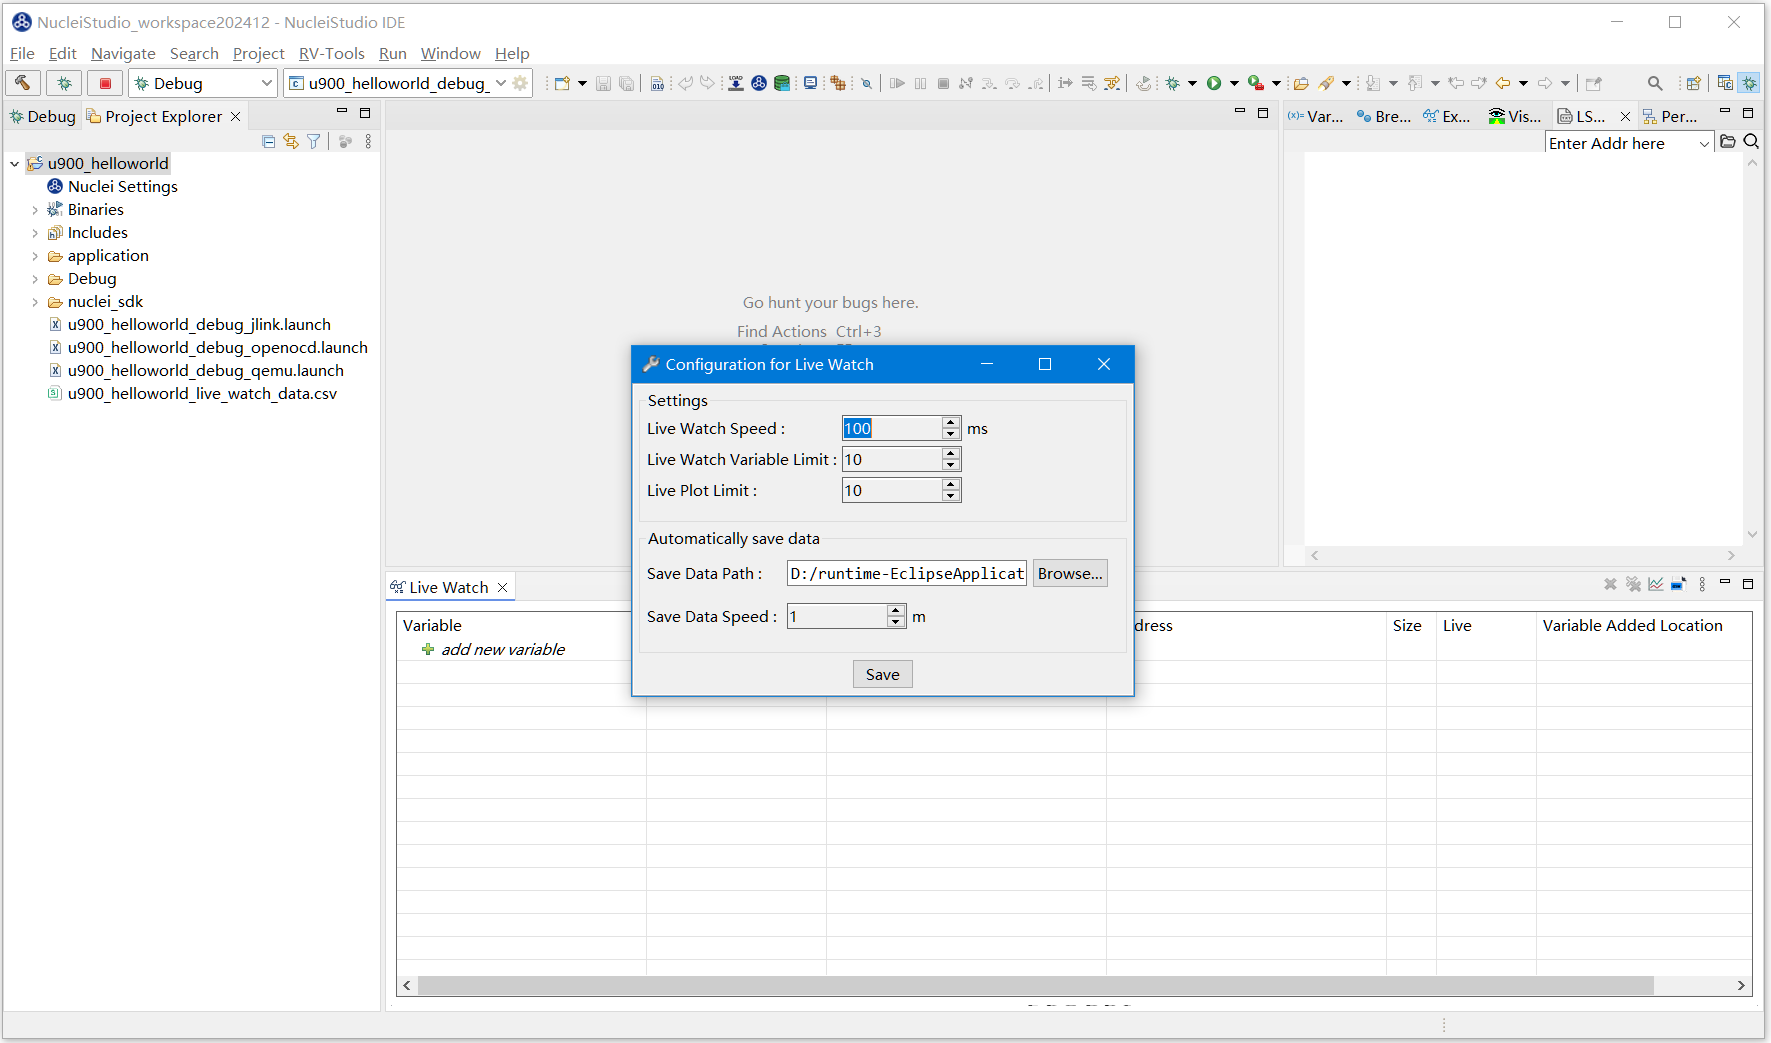
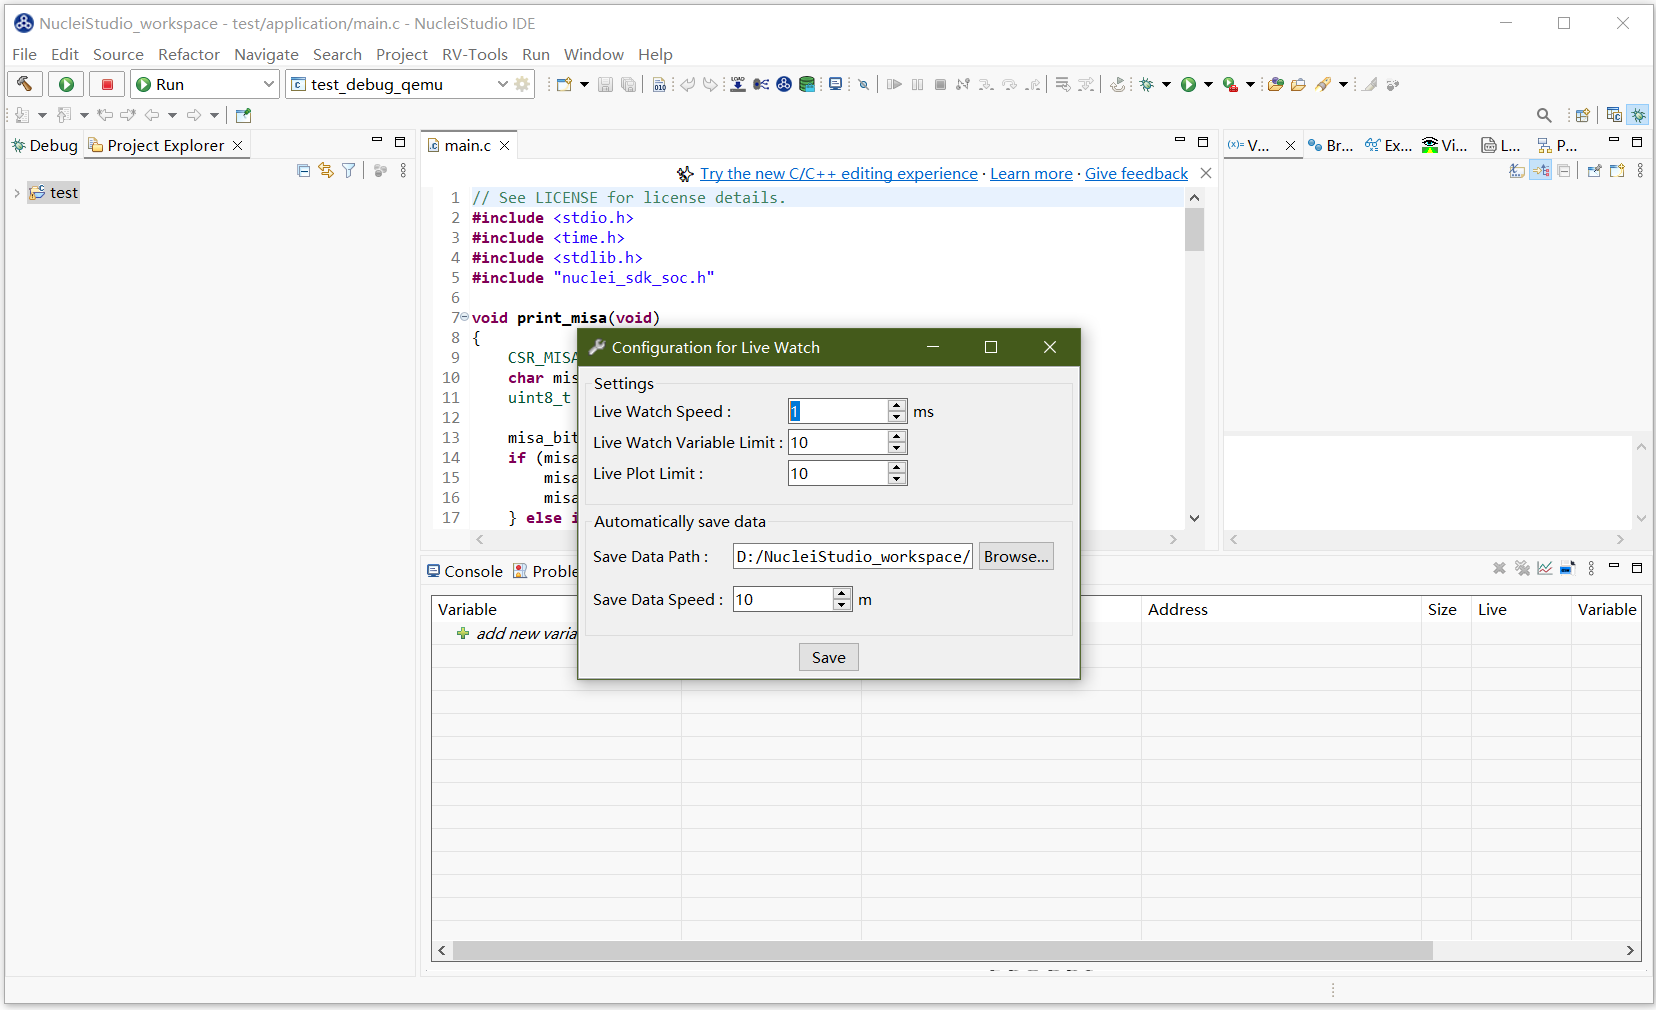
修复IDE文档中的错误，补充了部分内容

diff --git a/source/ide/advanceusage.rst b/source/ide/advanceusage.rst
@@ -632,7 +632,7 @@ Trace中Flame View的使用
 
 Trace本身记录的是程序执行的过程，所以天然的适合解析出程序的执行火焰图。假设用户已经获取到 ``工程名.trace`` 文件，点击 ``Decode trace into flame`` 按钮。
 
-若 ``工程名.trace`` 文件尚未解析，系统将首先弹出 Trace 解析配置页面（相关配置项详见前文说明）。用户完成配置后，点击 “Decode” 开始解析。。
+若 ``工程名.trace`` 文件尚未解析，系统将首先弹出 Trace 解析配置页面（相关配置项详见前文说明）。用户完成配置后，点击 ``Decode`` 开始解析。
 
 |image125|
 
@@ -874,7 +874,7 @@ Nuclei Model Debugger是为升级后的Nuclei Near Cycle Model开发的调试运
 - **Download** 程序下载模式
 - **Nuclei SMP Count CPU** 核心数量
 - **RVV length** RISC-V 向量扩展
-- **Ohter Extensions** 其他扩展
+- **Other Extensions** 其他扩展
 
 勾选了 ``Enable Nuclei Model RVTrace`` 并配置其路径，程序运行时会生成一个 ``*.rvtrave`` 的文件。
 
@@ -924,7 +924,7 @@ gprof 工具在查看 ``.gmon`` 文件的同时，会根据其内容，解析出
 
 也可以将配置文件导出并存放在工程的根目录下，这样就可以将配置分享给其他的用户。
 
-打开 Debug Configurations 页面，找到刚才的配置，然后在右键菜单中点击 `` Exprot... `` 。
+打开 Debug Configurations 页面，找到刚才的配置，然后在右键菜单中点击 `` Export... `` 。
 
 |image111|
 
@@ -1068,7 +1068,7 @@ Live Watch 视图提供了一系列功能菜单，帮助用户更高效地管理
 
      - 包含以下常用设置：
 
-        - Live Watch Speed : 设定 Live Watch 的采样频率,最快为100 ms每次。
+        - Live Watch Speed : 设定 Live Watch 的采样频率,最快为1 ms每次，建议采样频率在5 ms以上，如果采样频率过快可能会导致Live Plot绘制图形异常。
 
         - Live Watch Varible Limit : 限制同时采样的变量数量，最多为10个。
 
@@ -1144,7 +1144,7 @@ Live Watch使用演示
 
 |image88|
 
-编译工程后，Debug运行程序，在Live Watch视图中添加需要查看的变量。
+编译工程并Debug运行程序后，在Live Watch视图中添加需要查看的变量，添加变量的方式有两种。可以通过在Live Watch窗口中点击 ``add new variable`` 来手动添加；也可以在工程中选中想要添加的变，然后按住鼠标左键拖动至Live Watch窗口进行添加。
 
 |image89|
 
@@ -1262,7 +1262,7 @@ Flame View功能的使用
 
 Flame View（火焰图视图） 是一款直观、高效的性能分析工具，用于可视化嵌入式系统中程序的执行调用栈与时间分布。通过将复杂的跟踪数据转化为层次化堆叠图，Flame View 帮助开发者快速识别热点函数、分析执行路径、定位性能瓶颈。
 
-其中 ``*.gtef`` 文件，是我们在IDE中专为Flame View（火焰图视图）工具定义的一种文件格式。在IDE中目前可以通过Trace数据解析出 ``*.gtef`` 文件（具体参见），也可以通过Nuclei Model直接产生 ``*.gtef`` 文件（具体参见）。
+其中 ``*.gtef`` 文件，是我们在IDE中专为Flame View（火焰图视图）工具定义的一种文件格式。在IDE中目前可以通过Trace数据解析出 ``*.gtef`` 文件（具体参见 :ref:`Trace中Flame View的使用 <ide_ide_trace_flame>` ），也可以通过Nuclei Model直接产生 ``*.gtef`` 文件（具体参见 :ref:`Nuclei Model 中Flame View的使用 <ide_nuclei_model_flame>` ）。
 
 如果你已经有一个 ``*.gtef`` 文件，只需要双击该文件来启动Flame View工具，首先会弹出一个引导提示，告知用户IDE将会把 ``*.gtef`` 文件导入到Traces目录中。
 
@@ -1276,7 +1276,7 @@ Flame Chart视图以列表的形式展示了函数的相关信息，如开始时
 
 |image117|
 
-Flame Graph视图以火焰图的方式展示了程序中各函数执行的时间、调用层次、执行耗时等数据，在Flame Graph视图个，用户可以通过 ``A D W S`` 来对火焰图进行方大缩小，以便查看更多详细的信息。
+Flame Graph视图以火焰图的方式展示了程序中各函数执行的时间、调用层次、执行耗时等数据，在Flame Graph视图中，用户可以通过 ``A D W S`` 来对火焰图进行方大缩小，以便查看更多详细的信息。
 
 |image118|
 
@@ -1309,7 +1309,7 @@ Connect to Running Target
 
 为了满足用户直接连接到开发板的需求，Nuclei Studio 新增了 Connect to Running Target 功能。该功能允许用户直接连接到硬件开发板，可以读取开发板的相关信息，极大方便了开发的效率。
 
-具体参见 :ref:`Connect to Running Target功能 <ide_connet_to_target>` 。
+具体参见 :ref:`Connect to Running Target功能 <ide_connect_to_target>` 。
 
 |image103|
 

diff --git a/source/ide/projectbuild.rst b/source/ide/projectbuild.rst
@@ -158,7 +158,7 @@ Nuclei Studio中编译Hello World项目
 
 |image15|
 
-.. _ide_connet_to_target:
+.. _ide_connect_to_target:
 
 Connect to Running Target
 ---------------------------
@@ -167,7 +167,7 @@ Connect to Running Target
 
 在Nuclei Studio中 ``Connect to Running Target`` 仅支持OpenOCD和Jlink两种方式。下面以OpenOCD的方式来展示 ``Connect to Running Target`` 的使用。
 
- ``Connect to Running Target`` 功能的使用非常简单。连接好开发板，并创建一个demo工程，当工程编译好后选中工程，在鼠标右键弹出的菜单，或者在IDE的工具菜单中找到 ``Connect to Running Target`` 菜单并点击。
+使用 ``Connect to Running Target`` 功能非常简单。连接好开发板，并创建一个demo工程，当工程编译好后选中工程，在鼠标右键弹出的菜单，或者在IDE的工具菜单中找到 ``Connect to Running Target`` 菜单并点击。
 
 |image28|
 
